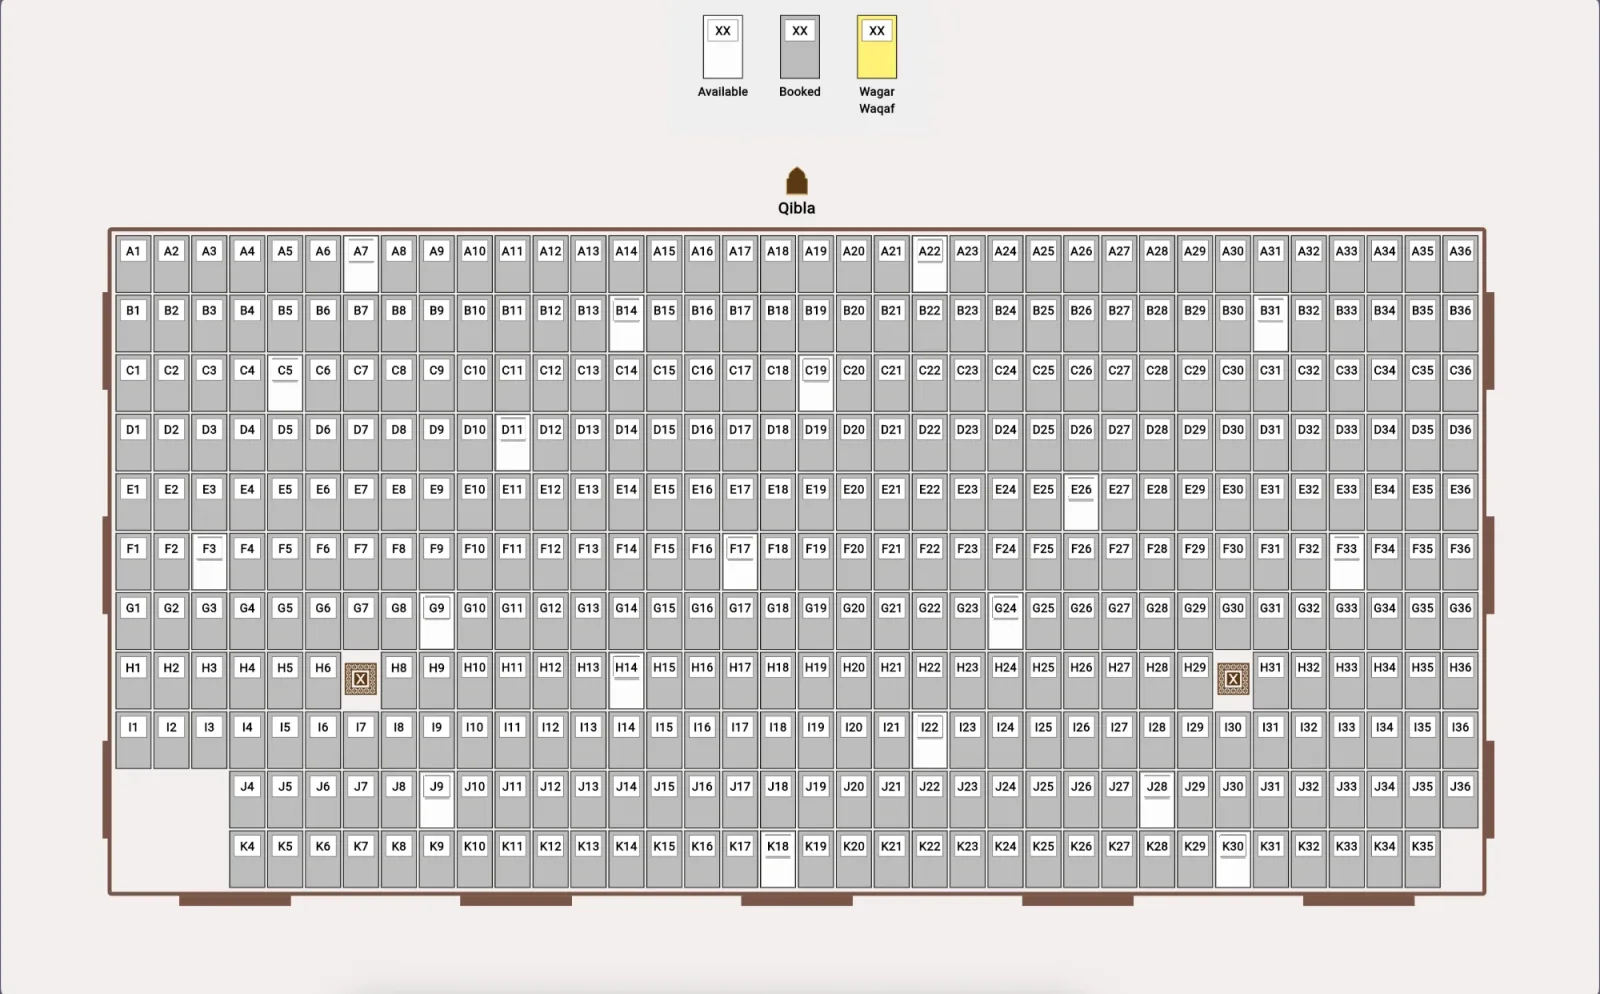
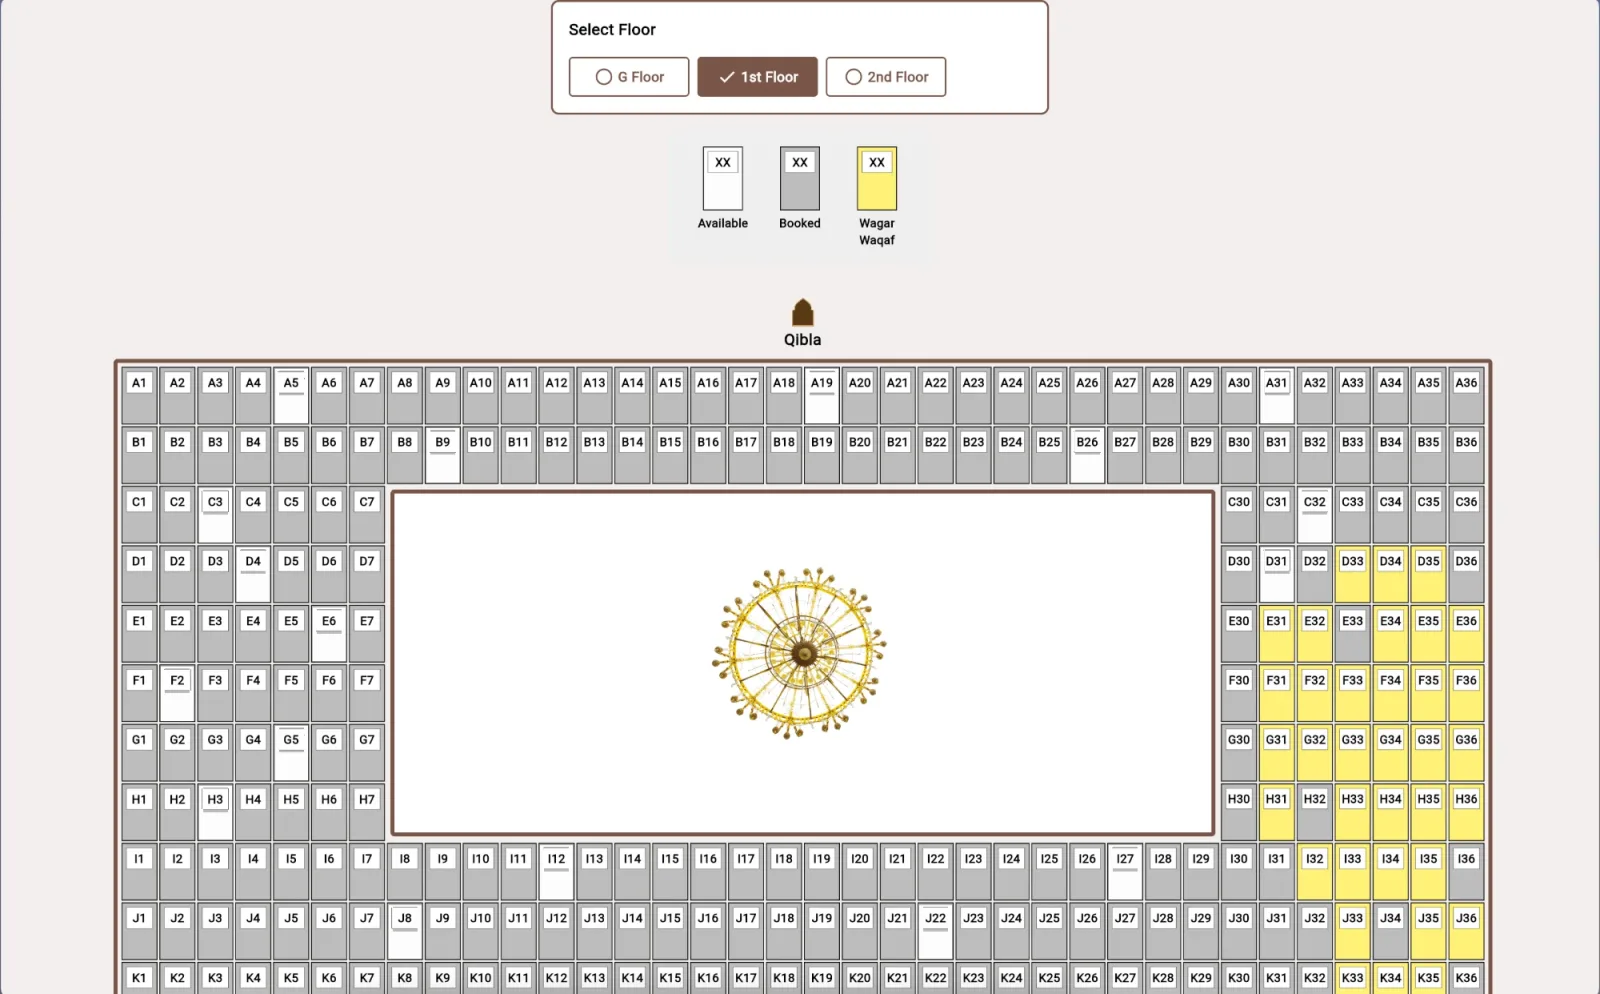
feat: Enhance screenshot lightbox functionality and update app screenshot alt text

diff --git a/index.html b/index.html
@@ -693,8 +693,8 @@
                                     srcset="public/apps/masallah/3-800.webp 800w, public/apps/masallah/3-1600.webp 1600w"
                                     sizes="(min-width: 900px) 33vw, 80vw" width="2000" height="1242"
                                     loading="lazy" decoding="async"
-                                    alt="Masallah Seat Booking Screenshot 3 - Full Masjid Seat Map with Available and Booked Seats"
-                                    title="Masallah Seat Booking Screenshot: Full Seat Map" />
+                                    alt="Masallah Seat Booking Screenshot 3 - 1st Floor Seat Map with Available, Booked and Wagaf Seats"
+                                    title="Masallah Seat Booking Screenshot: 1st Floor Seat Map" />
                             </div>
                         </div>
                         <div class="app-info">
@@ -809,8 +809,6 @@
                             aria-selected="false" tabindex="-1" type="button">Web app &amp; dashboard</button>
                         <button class="how-tab" role="tab" id="how-tab-site" aria-controls="how-panel-site"
                             aria-selected="false" tabindex="-1" type="button">Website</button>
-                        <button class="how-tab" role="tab" id="how-tab-fix" aria-controls="how-panel-fix"
-                            aria-selected="false" tabindex="-1" type="button">Fix an app</button>
                     </div>
 
                     <!-- Mobile app -->
@@ -856,6 +854,11 @@
                                     <img src="public/apps/splitup/icon-256.webp" width="40" height="40"
                                         loading="lazy" decoding="async" alt="" />
                                     <span><strong>Splitup</strong>Group expense splitting</span>
+                                    <span class="how-proof-arrow" aria-hidden="true">↓</span></a></li>
+                                <li><a class="how-proof-link" href="#ontime-health">
+                                    <img src="public/apps/ontime_health/icon-256.webp" width="40" height="40"
+                                        loading="lazy" decoding="async" alt="" />
+                                    <span><strong>Ontime Health</strong>Daily health check-ins</span>
                                     <span class="how-proof-arrow" aria-hidden="true">↓</span></a></li>
                                 <li><a class="how-proof-link" href="#my-deen">
                                     <img src="public/apps/mydeen/icon-256.webp" width="40" height="40"
@@ -982,43 +985,6 @@
                                     <span class="how-proof-arrow" aria-hidden="true">↗</span></a></li>
                             </ul>
                         </div>
-                    </div>
-
-                    <!-- Fix an app -->
-                    <div class="how-panel" role="tabpanel" id="how-panel-fix" aria-labelledby="how-tab-fix" hidden>
-                        <div class="how-pitch">
-                            <h3>Keep the app. Lose the bugs.</h3>
-                            <p>Slow, buggy, or ugly? I'll tell you exactly what's wrong before I touch anything.</p>
-                            <dl class="how-facts">
-                                <div><dt>First result</dt><dd>A plain-English audit, ranked by impact</dd></div>
-                                <div><dt>You test on</dt><dd>Test builds or a preview link after each batch</dd></div>
-                                <div><dt>You bring</dt><dd>Access to the code and your store accounts</dd></div>
-                            </dl>
-                            <button class="btn btn-accent btn-large" data-open-contact data-topic="Fix / improve an app"
-                                type="button">Start with discovery <span aria-hidden="true">→</span></button>
-                        </div>
-                        <ol class="how-steps">
-                            <li>
-                                <p class="how-when">First</p>
-                                <h4>Audit</h4>
-                                <p>I read the code, use the app, and list what's wrong.</p>
-                            </li>
-                            <li>
-                                <p class="how-when">Then</p>
-                                <h4>Fix list and price</h4>
-                                <p>You approve what gets fixed before any work starts.</p>
-                            </li>
-                            <li>
-                                <p class="how-when">Then</p>
-                                <h4>Fixes, tested as I go</h4>
-                                <p>A new build after each batch, so you see progress as it happens.</p>
-                            </li>
-                            <li>
-                                <p class="how-when">Finally</p>
-                                <h4>Ship the update</h4>
-                                <p>Released to the stores or your server, then I watch for fallout.</p>
-                            </li>
-                        </ol>
                     </div>
                 </div>
 

diff --git a/index.css b/index.css
@@ -1548,6 +1548,24 @@ h3 {
     box-shadow: 0 12px 40px rgba(0, 0, 0, 0.45);
 }
 
+/* Wide (desktop-landscape) screenshots open large; width is capped by both viewport width and height so the aspect ratio holds */
+.screenshot-lightbox.is-wide .screenshot-lightbox-content {
+    max-width: 96vw;
+}
+
+.screenshot-lightbox.is-wide .screenshot-lightbox-image {
+    width: min(96vw, calc(88vh * 2000 / 1242), 1800px);
+    max-width: none;
+    height: auto;
+    max-height: none;
+}
+
+.screenshot-lightbox.is-wide .screenshot-lightbox-close,
+.screenshot-lightbox.is-wide .screenshot-lightbox-close:hover,
+.screenshot-lightbox.is-wide .screenshot-lightbox-close:focus-visible {
+    transform: translate(-0.6rem, 0.6rem);
+}
+
 .screenshot-lightbox-close {
     position: absolute;
     top: 0;
@@ -1625,6 +1643,20 @@ h3 {
 
     .screenshot-lightbox-content {
         max-width: min(94vw, 420px);
+    }
+
+    .screenshot-lightbox.is-wide .screenshot-lightbox-content {
+        max-width: 94vw;
+    }
+
+    .screenshot-lightbox.is-wide .screenshot-lightbox-image {
+        width: 94vw;
+    }
+
+    .screenshot-lightbox.is-wide .screenshot-lightbox-close,
+    .screenshot-lightbox.is-wide .screenshot-lightbox-close:hover,
+    .screenshot-lightbox.is-wide .screenshot-lightbox-close:focus-visible {
+        transform: translate(-0.4rem, 0.4rem);
     }
 
     .screenshot-lightbox-close {

diff --git a/index.js b/index.js
@@ -40,6 +40,7 @@ function openLightbox(sourceImg) {
     lightboxImage.srcset = sourceImg.srcset;
     lightboxImage.src = sourceImg.src;
     lightboxImage.alt = sourceImg.alt || 'App screenshot preview';
+    lightbox.classList.toggle('is-wide', Boolean(sourceImg.closest('.app--wide')));
     lightbox.setAttribute('aria-hidden', 'false');
     lightbox.classList.remove('is-closing');
     lightbox.classList.add('is-open');
